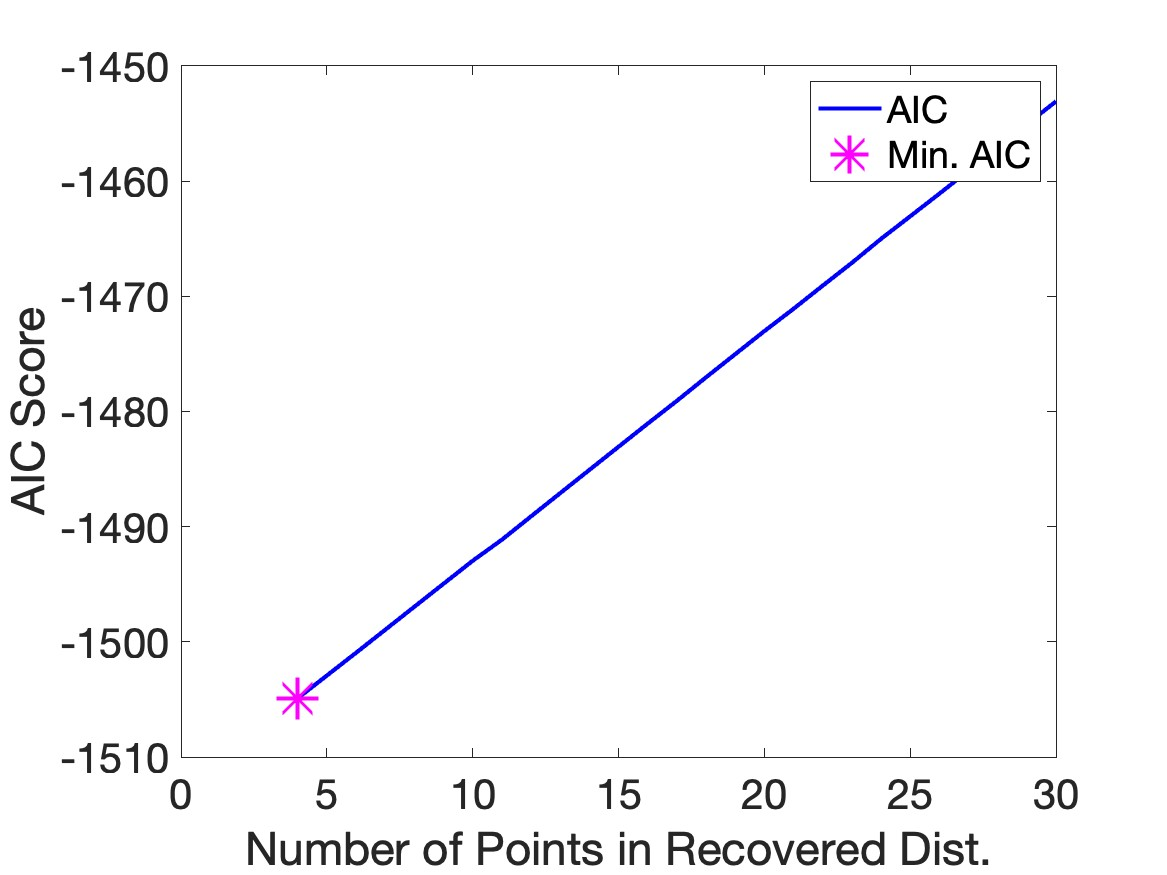
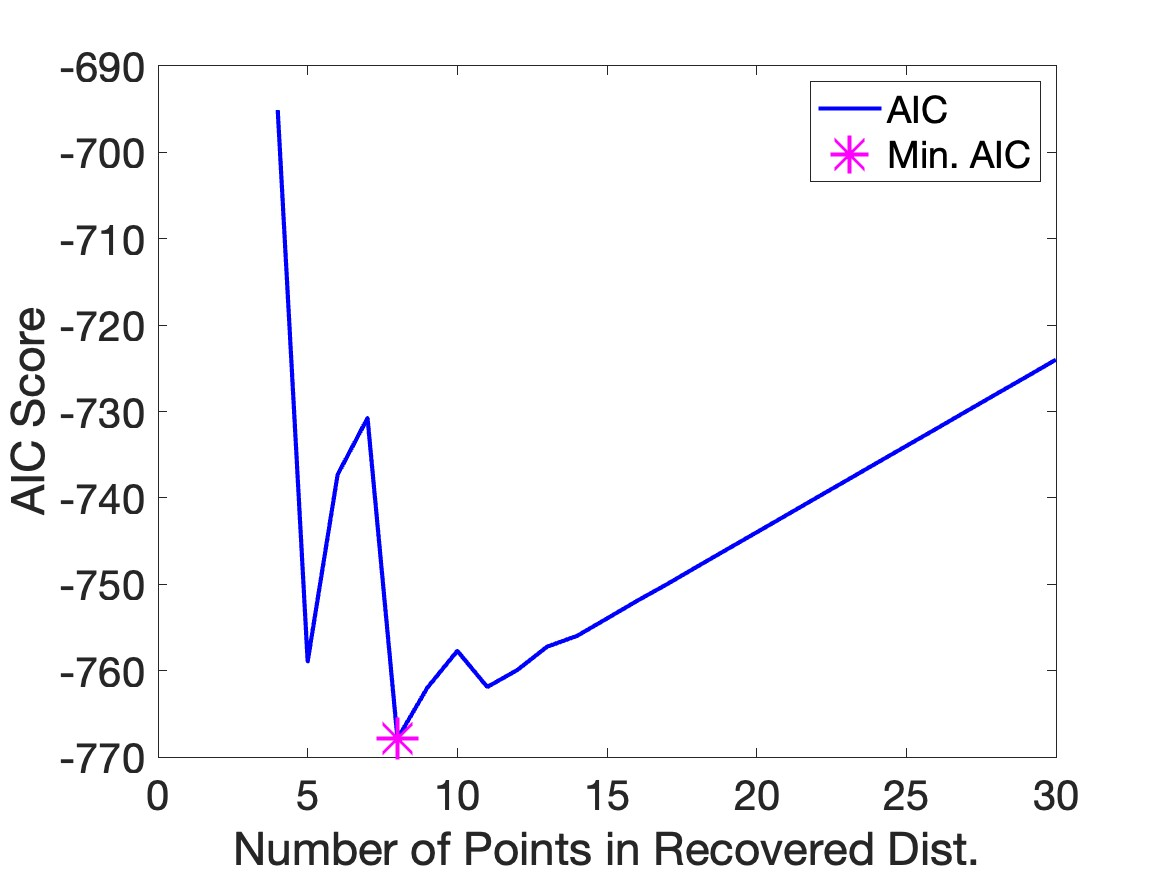
Added in ErrFn2k and ErrorFn2

diff --git a/GLSInverseScriptNPaper.m b/GLSInverseScriptNPaper.m
@@ -2,13 +2,13 @@
 clc
 clear all
 points=101; %this used to be 50
-disttype = ['TwoPoints'];
+disttype = ['Bigaussian'];
 % rho=1; %make these inputs 
 % k=1.5; %maximal death rate due to treatment %bigger than rho
 % y0=.2; %note c is normalized so needs to start between 0 and 1
 tfinal=50;
 tpoints=100; %typically 100 for paper
-noisesize=0.02; %keep it w 0 noise for now
+noisesize=0.0; %keep it w 0 noise for now
 tspan=linspace(0,tfinal,tpoints);
 rpoints = 12; 
 pointsstr=string(points);

diff --git a/ErrorFn2.m b/ErrorFn2.m
@@ -1,0 +1,10 @@
+function[err]=ErrorFn2(rho, data,tspan,IC,weights)
+
+%bestapprox=(gencmatC*s)'; %bestapprox gets weightedsol by multiplying s*csol
+[~,c]=ode45(@(t,c) rho*c*(1-c),tspan,IC );
+%[c]=ForwardFunctionFindRho(rho, data,tspan,IC)
+
+err=sum((weights).*((c' - data)).^2);
+    %sum((weights).*((bestapprox - data)).^2);
+
+%err=sum((weights).*((c' - data)).^2);

diff --git a/ErrFn2K.m b/ErrFn2K.m
@@ -1,0 +1,8 @@
+function[err]=ErrorFn2(k, data,tspan,IC,weights)
+
+%bestapprox=(gencmatC*s)'; %bestapprox gets weightedsol by multiplying s*csol
+[~,c]=ode45(@(t,c) -k*c,tspan,IC );
+%[c]=ForwardFunctionFindRho(rho, data,tspan,IC)
+
+err=sum((weights).*((c' - data)).^2);
+    %sum((weights).*((bestapprox - data)).^2);
